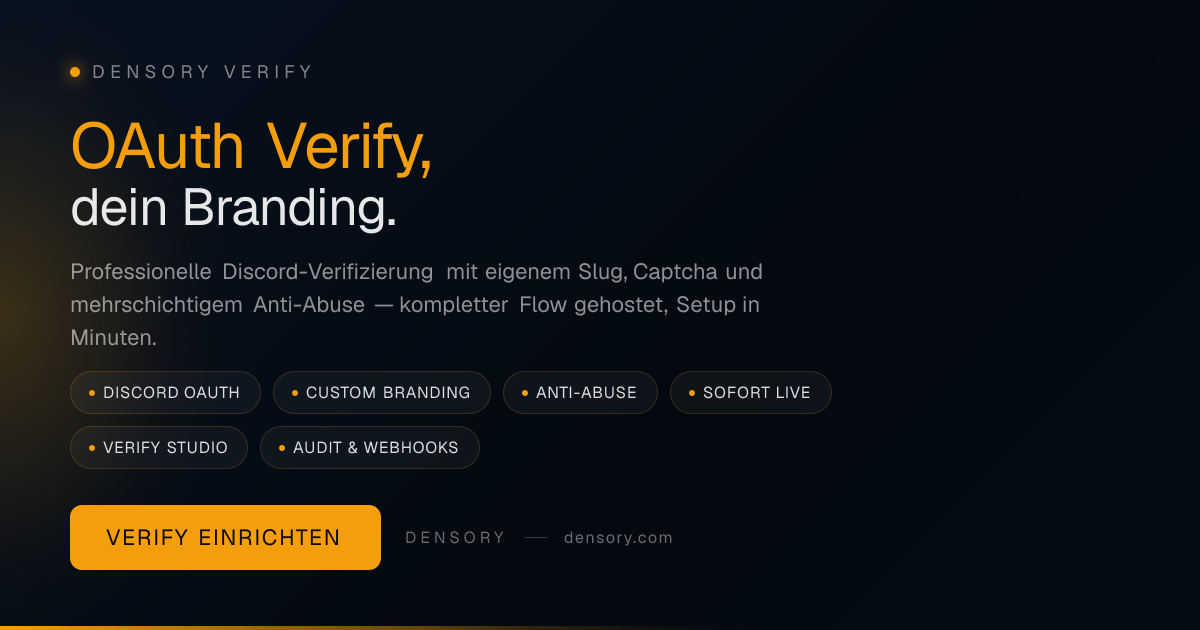
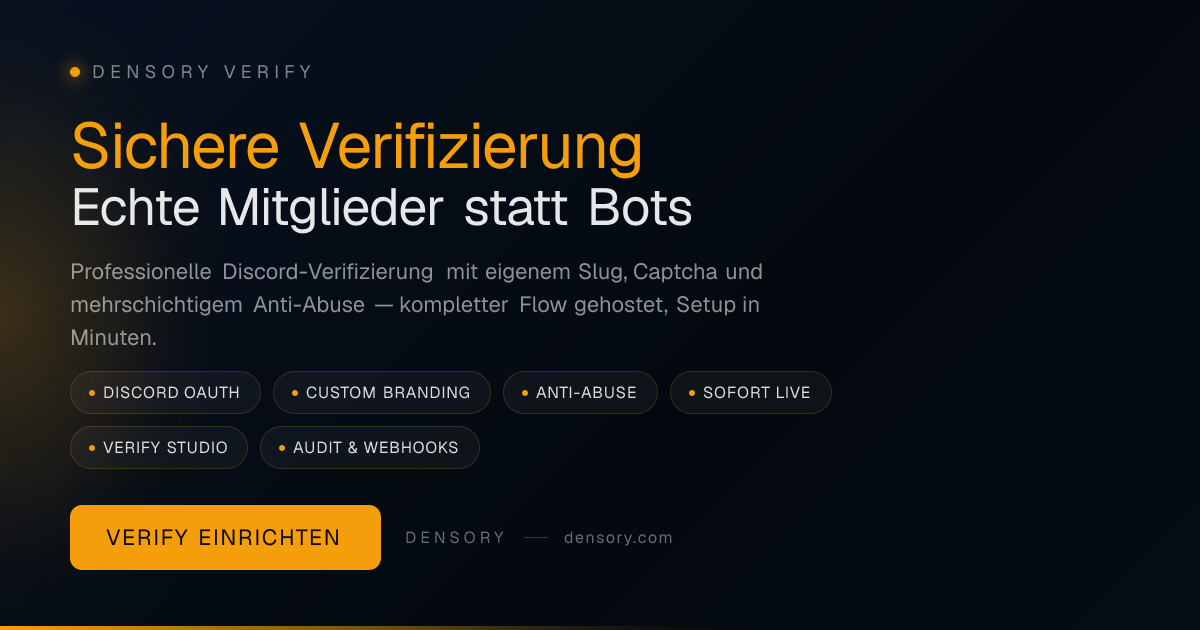
release: v1.1.8

Changed region(s): [[0.0617, 0.181, 0.5858, 0.3921]]

diff --git a/README.md b/README.md
@@ -1,12 +1,12 @@
 # Densory Verify — Verification & OAuth
 
-![Latest version: v1.1.7](https://img.shields.io/badge/Latest_version%3A_v1.1.7-555) ![Self-Hosted](https://img.shields.io/badge/Self--Hosted-555)
+![Latest version: v1.1.8](https://img.shields.io/badge/Latest_version%3A_v1.1.8-555) ![Self-Hosted](https://img.shields.io/badge/Self--Hosted-555)
 
 ![Densory Verify](docs/assets/hero-en.png)
 
 > OAuth verify page with captcha, anti-abuse and member studio — live in minutes.
 
-Members verify themselves through your own page, automatically get their role, and optionally go through captcha, VPN protection, and alt filtering. You design everything in the dashboard: slug, colors, verify page and member management — without complicated in-house development.
+Members verify themselves via your own page, automatically receive their role, and optionally go through captcha, VPN protection, and alt filters. You design everything in the dashboard: slug, colors, verify page, and member management — without complicated in-house development.
 
 ### 🛒 Get it on the Densory Shop
 
@@ -14,12 +14,12 @@ Members verify themselves through your own page, automatically get their role, a
 
 ## Features
 
-- **Discord OAuth** — OAuth2 with encrypted tokens — roles, gateway joins, and re-verify automatically.
+- **Discord OAuth** — OAuth2 with encrypted tokens — roles and server join automatically.
 - **Custom Branding** — Verify page with its own CSS, banner, cursor and slug — looks like your server, not Densory.
 - **Anti-Abuse** — VPN/Tor, Alt-Clusters, Blocklists, Captcha, and Account-Age — multi-layered configurable.
 - **Live instantly** — Slug, Credentials, and Verify Panel — ready to use in under 5 minutes from the dashboard.
-- **Verify Studio** — Member pool with profiles, connections, admin servers — live sync and GDPR self-service.
-- **Audit & Webhooks** — Real-time log, deauth webhooks, health checks — every action traceable in the dashboard.
+- **Verify Studio** — Member pool with profiles, shortcuts, and admin servers — GDPR export with a click.
+- **Audit & Webhooks** — Role log in Discord, revocation via webhook, health checks — all traceable.
 
 ## Prerequisites
 

diff --git a/README.de.md b/README.de.md
@@ -1,6 +1,6 @@
 # Densory Verify — Verifizierung & OAuth
 
-![Aktuelle Version: v1.1.7](https://img.shields.io/badge/Aktuelle_Version%3A_v1.1.7-555) ![Self-Hosted](https://img.shields.io/badge/Self--Hosted-555)
+![Aktuelle Version: v1.1.8](https://img.shields.io/badge/Aktuelle_Version%3A_v1.1.8-555) ![Self-Hosted](https://img.shields.io/badge/Self--Hosted-555)
 
 ![Densory Verify](docs/assets/hero-de.png)
 
@@ -14,12 +14,12 @@ Mitglieder verifizieren sich über deine eigene Seite, erhalten automatisch ihre
 
 ## Funktionen
 
-- **Discord OAuth** — OAuth2 mit verschlüsselten Tokens — Rollen, Gateway-Joins und Re-Verify automatisch.
+- **Discord OAuth** — OAuth2 mit verschlüsselten Tokens — Rollen und Server-Beitritt automatisch.
 - **Custom Branding** — Verify-Page mit eigenem CSS, Banner, Cursor und Slug — wirkt wie dein Server, nicht wie Densory.
 - **Anti-Abuse** — VPN/Tor, Alt-Clusters, Blocklists, Captcha und Account-Age — mehrschichtig konfigurierbar.
 - **Sofort live** — Slug, Credentials und Verify-Panel — in unter 5 Minuten einsatzbereit aus dem Dashboard.
-- **Verify Studio** — Member-Pool mit Profilen, Connections, Admin-Servern — Live-Sync und GDPR-Self-Service.
-- **Audit & Webhooks** — Echtzeit-Log, Deauth-Webhooks, Health-Checks — jede Aktion nachvollziehbar im Dashboard.
+- **Verify Studio** — Member-Pool mit Profilen, Verknüpfungen und Admin-Servern — DSGVO-Export per Klick.
+- **Audit & Webhooks** — Rollen-Log im Discord, Widerruf per Webhook, Health-Checks — alles nachvollziehbar.
 
 ## Voraussetzungen
 

diff --git a/CHANGELOG.md b/CHANGELOG.md
@@ -1,7 +1,7 @@
 # Changelog — Densory Verify
 
-## v1.1.7
+## v1.1.8
 
-- Release v1.1.7 published from the Densory build pipeline.
+- Release v1.1.8 published from the Densory build pipeline.
 
 Available in the [Densory Shop](https://densory.com/shop/densory-verify).
